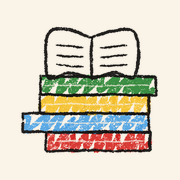
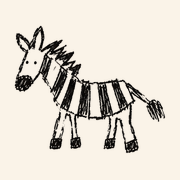
얼룩말 로고 넣기
첫 화면 '잇다' 글씨 옆·맨 아래·브라우저 탭 아이콘·공유 미리보기 이미지에 잇다 로고(얼룩말) 사용, 쓰지 않는 책 더미 그림 정리

Claude-Session: https://claude.ai/code/session_01Tpsqq5FQajPvSYhnWXbbjk

diff --git a/index.html b/index.html
@@ -67,8 +67,9 @@
   /* 첫 화면 */
   .hero { text-align: center; padding: 30px 0 8px; }
   .hero .eyebrow { font-family: var(--pen); font-size: 22px; color: var(--ink); line-height: 1; }
-  .hero h1 { margin: 6px auto 0; width: min(64vw, 270px); }
-  .hero h1 img { width: 100%; }
+  .hero h1 { display: flex; align-items: flex-end; justify-content: center; gap: 2px; margin: 8px auto 0; }
+  .hero h1 .wm { width: min(54vw, 230px); }
+  .hero h1 .zebra { width: min(28vw, 118px); margin: 0 -10px -6px 0; }
   .hero .tagline { font-family: var(--serif); font-size: 18px; font-weight: 700; line-height: 1.65; margin-top: 16px; }
   .hero .scene { margin: 14px -8px 0; }
   .note { font-family: var(--pen); font-size: 21px; line-height: 1.3; color: var(--ink); margin-top: 2px; }
@@ -138,7 +139,7 @@
 
   /* 바닥 */
   footer { text-align: center; padding: 48px 0 40px; }
-  footer img { width: 120px; margin: 0 auto 12px; }
+  footer img { width: 104px; margin: 0 auto 10px; }
   footer .f1 { font-family: var(--serif); font-weight: 700; font-size: 15px; }
   footer .f2 { font-size: 12px; color: var(--ink); margin-top: 4px; }
 
@@ -147,7 +148,8 @@
   @media (min-width: 860px) {
     .wrap { max-width: 860px; padding: 0 40px; }
     .hero { padding-top: 40px; }
-    .hero h1 { width: 300px; }
+    .hero h1 .wm { width: 270px; }
+    .hero h1 .zebra { width: 140px; }
     .hero .tagline { font-size: 21px; }
     .hero .scene { max-width: 720px; margin: 18px auto 0; }
     .divider { width: 720px; }
@@ -172,7 +174,7 @@
     <main>
       <section class="hero" aria-labelledby="title">
         <p class="eyebrow">책 읽는 사람들의 모임</p>
-        <h1 id="title"><img src="img/wordmark.webp" alt="잇다" width="483" height="248"></h1>
+        <h1 id="title"><img class="wm" src="img/wordmark.webp" alt="잇다" width="483" height="248"><img class="zebra" src="img/logo.webp" alt="" width="412" height="352"></h1>
         <p class="tagline">책과 책, 사유와 사유를<br>얼룩말 무늬처럼 잇는 독서모임</p>
         <div class="scene">
           <img src="img/hero.webp" width="1080" height="756" alt="두 사람이 언덕에 앉아 각자 책을 펼치고 있고, 두 책 사이를 검은 줄무늬 띠가 무지개처럼 잇고 있는 크레파스 그림">
@@ -255,7 +257,7 @@
     </main>
 
     <footer>
-      <img src="img/books.webp" width="276" height="256" alt="">
+      <img src="img/logo.webp" width="412" height="352" alt="잇다 로고, 얼룩말">
       <p class="f1">잇다 itda</p>
       <p class="f2">책과 책, 사유와 사유를 잇는 독서모임 · © 2026 itda</p>
     </footer>
